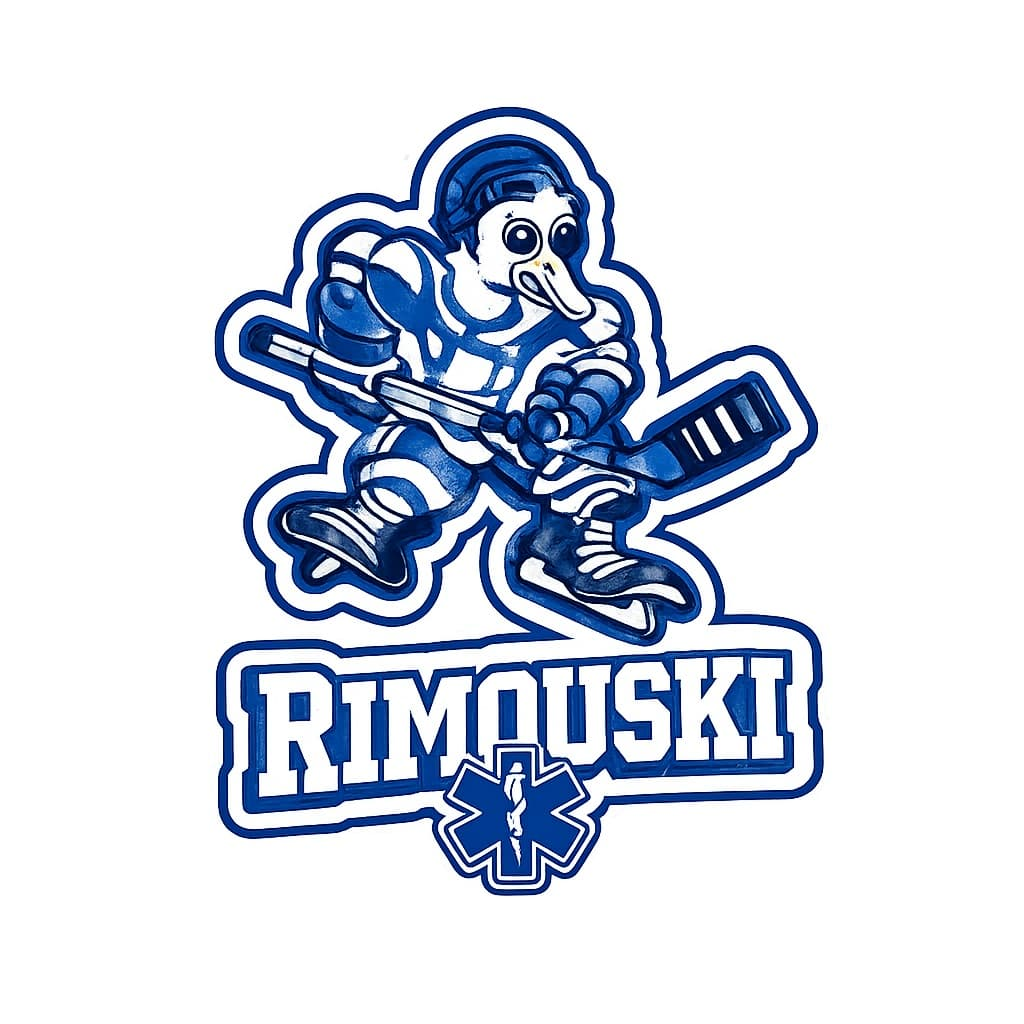
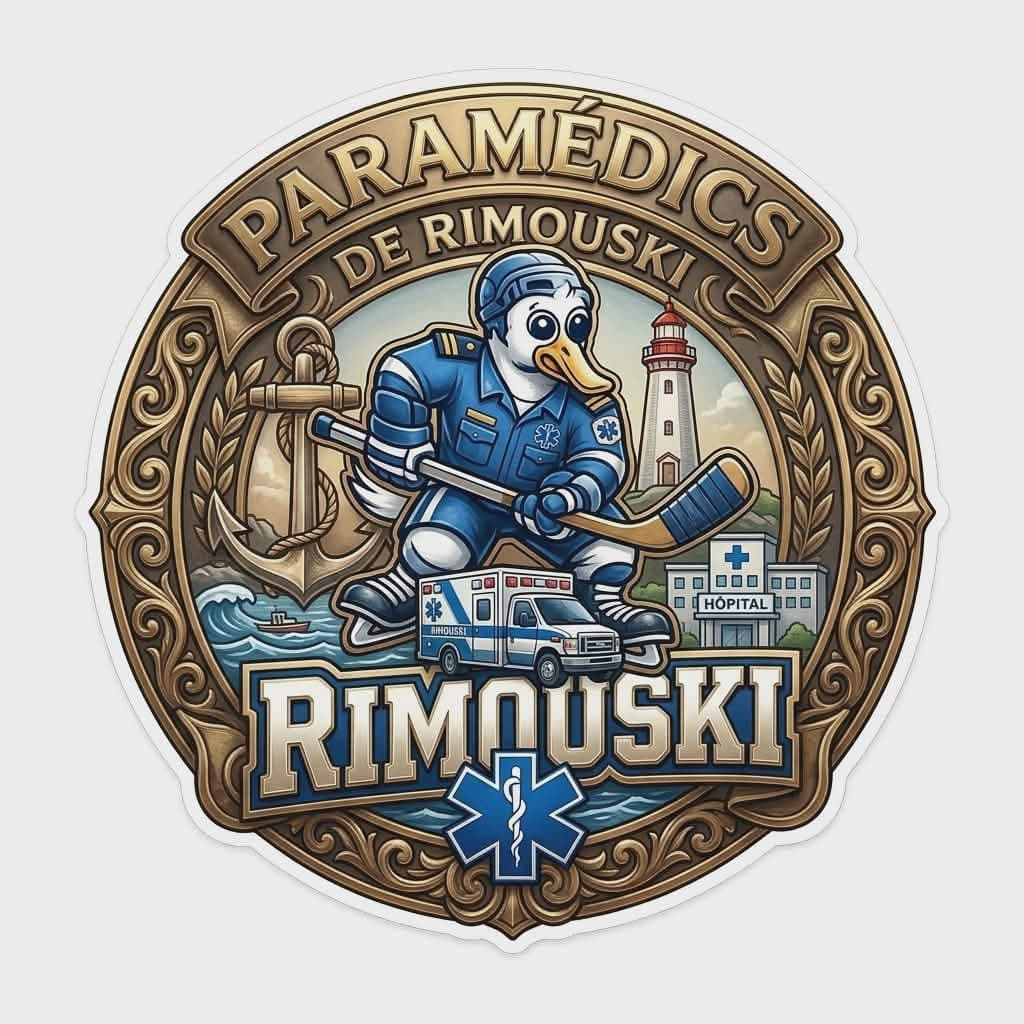
Dev → Main promotion (#65)
* Merge pull request #54 from Olirobi123/dev (#57)

* Ajout d'images. Réduction de la taille de toutes les images avec squash.app

* Modification de Listiguj

* fix: Doc update image update

* fix: update to git workflow

diff --git a/Docs/Implementation.md b/Docs/Implementation.md
@@ -1,6 +1,6 @@
-# Implementation Plan for 38BudBud Refactor & UI/UX Overhaul
+# Implementation Plan for 38BudBud
 
-## Recommended Tech Stack
+## Tech Stack
 
 ### Frontend:
 - **Framework:** React 18 + TypeScript  
@@ -38,193 +38,6 @@
 ## Implementation Stages
 
 > **Workflow Rule:** Whenever a to-do list item is marked as complete, the corresponding checklist in this documentation (Implementation.md) must also be updated to reflect the change. This rule applies to all future iterations and stages.
-
-### Stage 1: Foundation & Setup
-**Duration:** 2-3 days  
-**Dependencies:** None
-
-#### Sub-steps:
-- [x] Audit the codebase for dead code and hardcoded data
-- [x] Remove all unused files, components, and data
-- [x] Set up ESLint and Prettier with strict rules
-- [x] Ensure TypeScript strict mode is enabled
-- [x] Document current project structure
-
-### Stage 2: Core Refactor & Cleanup
-**Duration:** 4-6 days  
-**Dependencies:** Stage 1 completion
-
-#### Sub-steps:
-- [x] Remove the following unused frontend files identified during Stage 1:
-    - client/src/components/features-section.tsx
-    - client/src/components/statistics-section.tsx
-    - client/src/components/contact-form.tsx
-- [x] Refactor client/src/pages/draft.tsx for clarity and maintainability (split large files, extract hooks/components)
-- [x] Refactor client/src/pages/echanges.tsx for clarity and maintainability (split large files, extract hooks/components)
-- [x] Refactor client/src/pages/home.tsx for clarity and maintainability (split large files, extract hooks/components)
-- [x] Refactor client/src/components/player-search.tsx for clarity and maintainability (split large files, extract hooks/components)
-- [x] Refactor client/src/components/navigation.tsx for clarity and maintainability (split large files, extract hooks/components)
-- [x] Standardize file and folder naming conventions
-- [x] Centralize UI primitives in `components/ui`
-- [x] Ensure all API calls go through hooks/services
-- [x] **Restructure the server codebase:**
-    - Create `controllers/` for request/response logic
-    - Create `services/` for business logic and DB access
-    - Create `models/` for data schemas/types
-    - Create `middleware/` for authentication, validation, and error handling
-    - Create `types/` for backend TypeScript types
-    - Create `utils/` for shared utility functions
-    - Refactor existing route files to use controllers and services
-- [x] Revoir et uniformiser la gestion du loading et des erreurs dans tous les composants/pages.
-
-### Stage 3: UI/UX Consistency & Feature Alignment
-**Duration:** 5-7 days
-**Dependencies:** Stage 2 completion
-
-#### Sub-steps:
-- [x] Créer les routes API nécessaires pour alimenter le feed d'activité et le dernier échange sur la page d'accueil.
-- [x] Audit all UI components for consistency (colors, spacing, typography)
-- [x] Refactor draft page table to match player search table visually and functionally
-- [x] Refactor "Échange" section UI for improved usability and consistency
-- [x] Apply semantic tokens across content pages (home, equipes, team-details, echanges)
-- [ ] Redesign landing page for clarity and relevance *(deferred - pending design decisions)*
-- [x] Create dedicated team pages with consistent layout and navigation
-- [x] Ensure all pages use uniform layout and navigation components *(implemented shared Layout component)*
-
-### Stage 4: NHL API Integration & Roster Management
-**Duration:** 7-8 days  
-**Dependencies:** Stage 3 completion  
-**Status:** Phase 0-5 ✅ Complete | Phase 7-8 ✅ Complete | Phase 6, 9 🚀 Ready to start
-
-#### Overview:
-Implement comprehensive roster tracking, NHL API integration with @olirobi/nhl_api_client, awards system, and player ownership display.
-#### Sub-steps:
-
-**Phase 0: Live NHL Scores Ticker**
-- [x] Add `/api/scores` endpoint using nhl_api_client (`server/routes/scores.ts`)
-- [x] Create scores service (`server/services/scoresService.ts`)
-- [x] Create `IScores.ts` types (re-export from @olirobi/nhl_api_client)
-- [x] Create `useNHLScores.ts` hook
-- [x] Create `LiveScoresTicker.tsx` component
-- [x] Integrate ticker into `Layout.tsx`
-
-**Phase 1: Database & Core Infrastructure** ✅ **COMPLETED**
-- [x] Create `joueurs` table (id, nhl_player_id, nom, prenom, position, created_at, updated_at)
-- [x] ~~Create `effectifs` table~~ **DECISION: Using junction table approach**
-  - [x] Create `equipe_joueurs` junction table (equipe_id, joueur_id) with UNIQUE constraint on joueur_id
-  - **Rationale:** Proper relational design, efficient JOINs, referential integrity via foreign keys.
-- [x] Add `joueur_id` column to `repechages` table with foreign key constraint
-- [x] Create indexes: `idx_joueurs_nhl_player_id`, `idx_joueurs_position`, `idx_repechages_joueur_id`, `idx_equipe_joueurs_equipe_id`, `idx_equipe_joueurs_joueur_id`
-- [x] Populate `trophees` table with pool awards (Général, Attaque, Défense, Gardien, Playoffs)
-- [x] Update Docs/DB_STRUCTURE.md with new schema documentation
-- [x] Add backend types to `server/types/index.ts` (`Joueur`, `EquipeJoueur` interfaces)
-- [x] Add database queries to `server/models/index.ts` (`GET_TEAM_ROSTER`, `ADD_PLAYER_TO_ROSTER`)
-
-**Phase 2: Player Management Service** ✅ **COMPLETED**
-- [x] Extended `server/services/playersService.ts` (using dependency injection pattern)
-  - `getAPIPlayerByNHLId()` - Fetch player from NHL API via nhlClient
-  - `searchPlayers()` - Search players via NHL API
-  - `getPlayerById()` - Get player from local `joueurs` table by internal ID
-  - `getPlayerByNhlId()` - Get player from local table by NHL player ID
-  - `getCurrentTeam()` - Get player's current pool team via junction table
-  - `getOwnershipByNhlId()` - Get pool team owner by NHL ID
-- [x] Added queries to `server/models/index.ts`
-  - `GET_JOUEUR_BY_ID`, `GET_JOUEUR_BY_NHL_ID`, `GET_JOUEUR_CURRENT_TEAM`, `CREATE_JOUEUR`
-- [x] Updated `server/controllers/playersController.ts` with new endpoints
-- [x] Updated `server/routes/players.ts` with new routes
-  - `GET /search`, `GET /:nhlId/ownership`, `GET /nhl/:nhlId`, `GET /bd/:id`
-
-**Phase 3: Roster Tracking Service** ✅ **COMPLETED**
-- [x] Modify `server/services/teamsService.ts`
-  - `getTeamRoster()` - Get team's current roster via `equipe_joueurs` junction table
-    - JOIN `equipe_joueurs` with `joueurs` WHERE `equipe_id = $1`
-    - Return array of player objects with basic info
-  - `getTeamRosterWithStats()` - Roster enriched with NHL stats (call NHL API for each player). Only get Goals, Assists, Points, Games Played for skaters. Goalies Saves percentage, Games played, Goals against, Wins.
-
-
-**Phase 4: Roster API Endpoints** ✅ **COMPLETED**
-- [x] Roster endpoint exists in `server/routes/teams.ts` (`GET /api/teams/:id/roster`)
-- [x] Controller method exists in `server/controllers/teamsController.ts` (`getRoster`)
-- [x] Implement `getTeamRoster()` in `server/services/teamsService.ts` to query `equipe_joueurs` junction table
-- [x] Add `getTeamRosterWithStats()` to enrich roster with NHL stats
-- [x] Added `GET /:id/roster/stats` route for stats-enriched roster
-
-**Phase 5: NHL API Integration with nhl_api_client** ✅ **COMPLETED**
-- [x] Update `server/services/playersService.ts`
-  - Replaced direct NHL API `fetch()` with `nhlClient.players.get(id).stats()`
-  - Moved player search from routes to service layer
-  - Removed duplicate search endpoint from `server/routes.ts`
-  - Implemented error handling with try-catch and proper error messages
-  - Using typed imports: `PlayerStatsResponse`, `PlayerSearchResult` from NHL client
-- [x] Unified frontend/backend types
-  - `client/src/types/IPlayerDetails.ts` re-exports from `@olirobi/nhl_api_client`
-  - `server/types/index.ts` re-exports `PlayerStatsResponse`, `PlayerSearchResult`, `PlayerSearchResponse`
-  - `PlayerDetails` = `PlayerStatsResponse`, `NHLPlayer` = `PlayerSearchResult`
-  - Fixed `client/src/types/index.ts` exports for `IHome` and `IDraft`
-
-**Phase 6: Awards System**
-- [x] Create `server/services/tropheesService.ts`
-  - `getTeamTrophies()`
-- [x] Create `server/controllers/tropheesController.ts`
-- [x] Create `server/routes/trophees.ts`
-  - `GET /api/trophees`, `GET /api/trophees/gagnants/:year`
-
-**Phase 7: Frontend - Player Ownership Display** ✅ **COMPLETED**
-- [x] Create `client/src/hooks/joueur/usePlayerOwnership.ts`
-- [x] Update `client/src/components/joueur/JoueurHeader.tsx`
-  - Add ownership badge showing pool team name
-  - Link badge to team page (`/equipes/:id`)
-  - Skeleton loader during fetch, hidden when player is unowned
-
-**Phase 8: Frontend - Team Roster Display** ✅ **COMPLETED**
-- [x] Update `client/src/components/equipes/TeamRoster.tsx`
-  - Functional roster table with skaters and goalies sections
-  - Display: Player, Position, GP, G, A, Pts (skaters) / W, SV%, GAA (goalies)
-  - Link player names to detail pages
-  - Active player limits: top 12 forwards, top 6 defensemen count for points
-  - Inactive players shown with reduced opacity and dashed separator
-  - Total points row per position group (active players only)
-- [x] Backend `isActive` flag computed in `teamsService.getTeamRosterWithStats()`
-- [x] Verify `client/src/hooks/useTeam.ts` fetches roster correctly
-
-**Phase 9: Frontend - Awards Section**
-- [x] Add award types to `client/src/types/index.ts`
-- [x] Create `client/src/hooks/useTrophees.ts`
-- [x] Create `client/src/components/trophees/TropheesList.tsx`
-- [x] Create `client/src/components/trophees/TropheeCard.tsx`
-- [x] Create `client/src/components/equipes/TeamTrophies.tsx`
-- [x] Review UI plan to see clever way to display trophies
-- [x] Add different icons for each award type
-- [x] Général trophies are the most important so they should have a bigger presence or priority
-- [x] Add "Trophées" to team page
-
-
-#### Verification Steps:
-1. Database migration runs successfully
-2. `GET /api/teams/1/roster` returns roster with NHL stats
-3. `GET /api/joueurs/:nhlId/ownership` returns correct team
-4. Player detail pages show ownership badge
-5. Team roster tables display correctly with stats
-6. Awards CRUD operations work
-7. New draft picks auto-create roster entries
-8. New trades update player ownership
-
-#### Critical Files:
-- `server/services/teamsService.ts` (modify)
-- `server/services/playersService.ts` (modify)
-- `client/src/components/equipes/TeamRoster.tsx` (modify)
-- `client/src/components/joueur/JoueurHeader.tsx` (modify)
-
-### Stage 5: Polish, Testing & Optimization
-**Duration:** 2-3 days
-**Dependencies:** Stage 4 completion
-
-#### Sub-steps:
-- [ ] Conduct comprehensive manual and automated testing
-- [ ] Optimize performance (bundle size, lazy loading, etc.)
-- [ ] Enhance accessibility (a11y) and responsive design
-- [ ] Finalize documentation and code comments
-- [ ] Prepare for deployment
 
 #### Pending Optimizations (blocked on library update)
 

diff --git a/CLAUDE.md b/CLAUDE.md
@@ -123,17 +123,12 @@ feature/* → dev → main
 ### Merging dev → main
 When promoting `dev` to `main`:
 
-1. **Rebase dev on main** to ensure a linear history:
-   ```bash
-   git fetch origin
-   git checkout dev
-   git rebase origin/main
-   ```
-
-2. **Create a PR** from `dev` to `main`:
+1. **Create a PR** from `dev` to `main`:
    ```bash
    gh pr create --base main --head dev
    ```
+
+2. **Merge using "Rebase and merge"** on GitHub — the rebase happens at merge time, keeping history linear.
 
 ## Current Development Status
 
